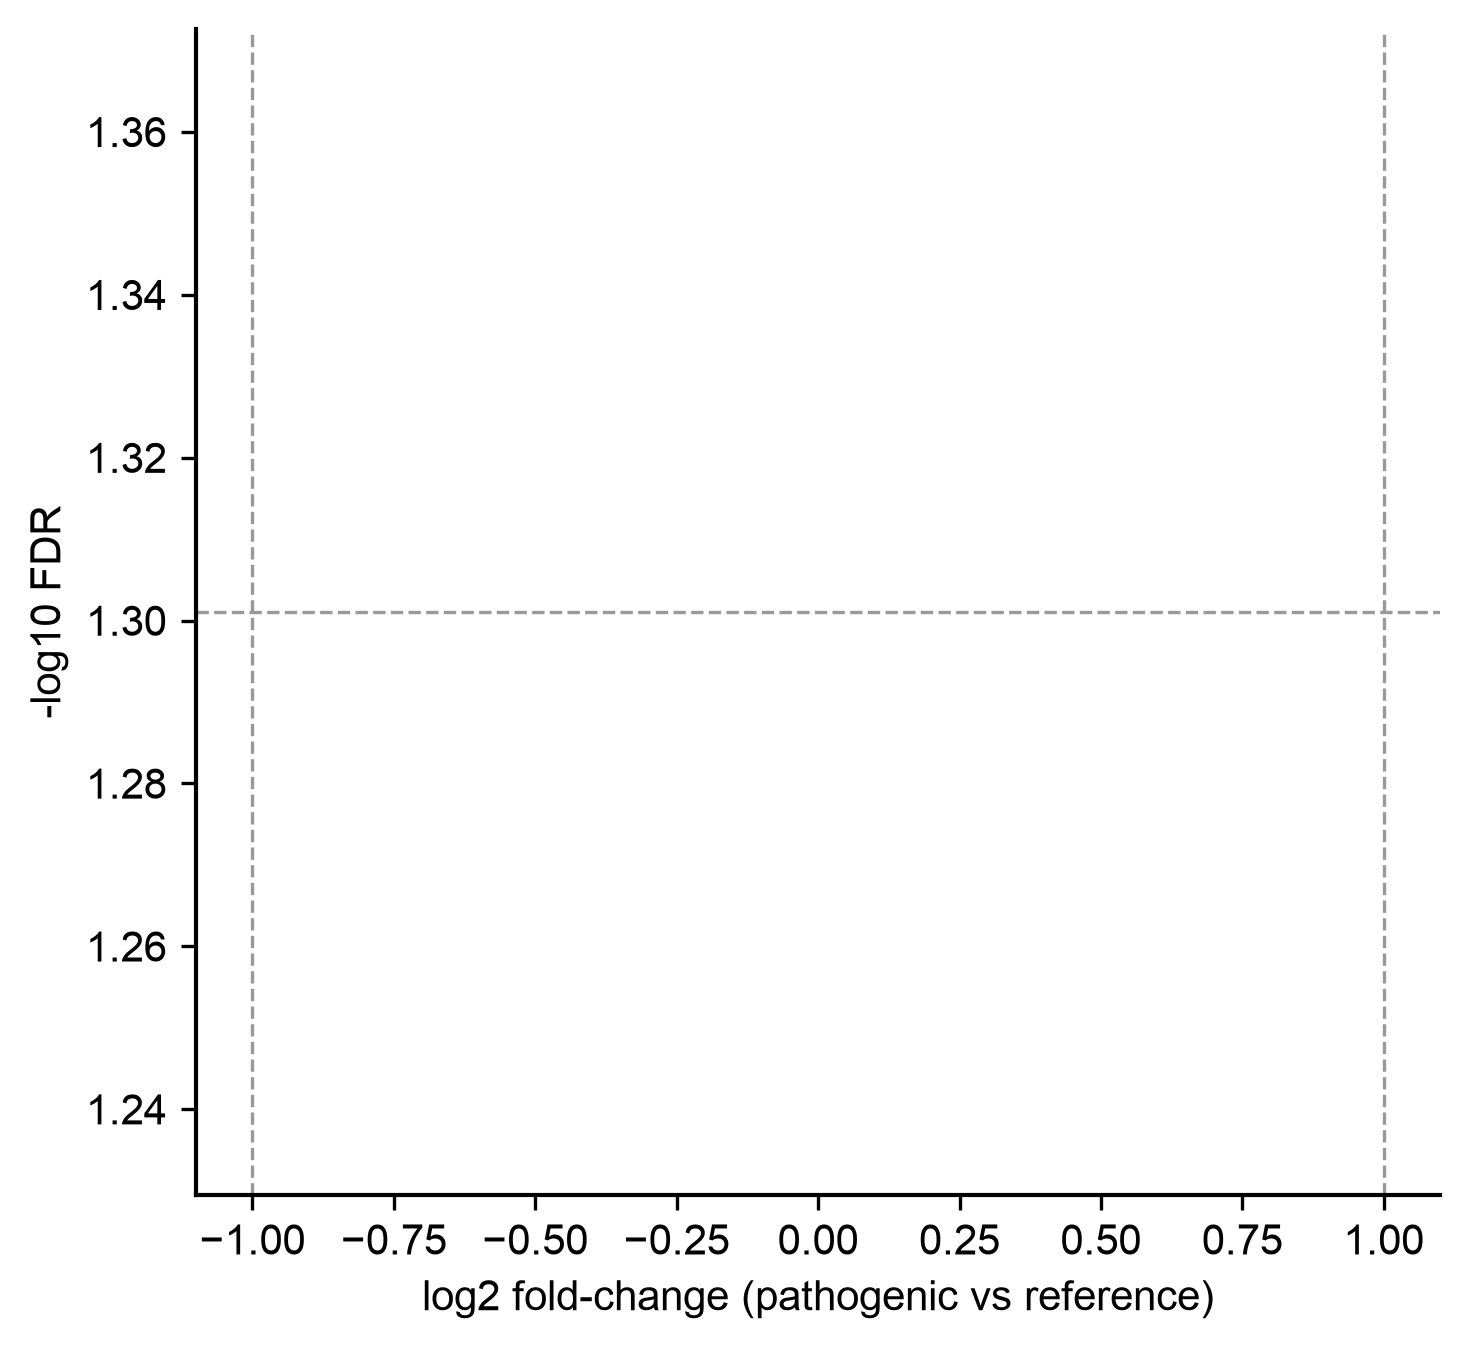
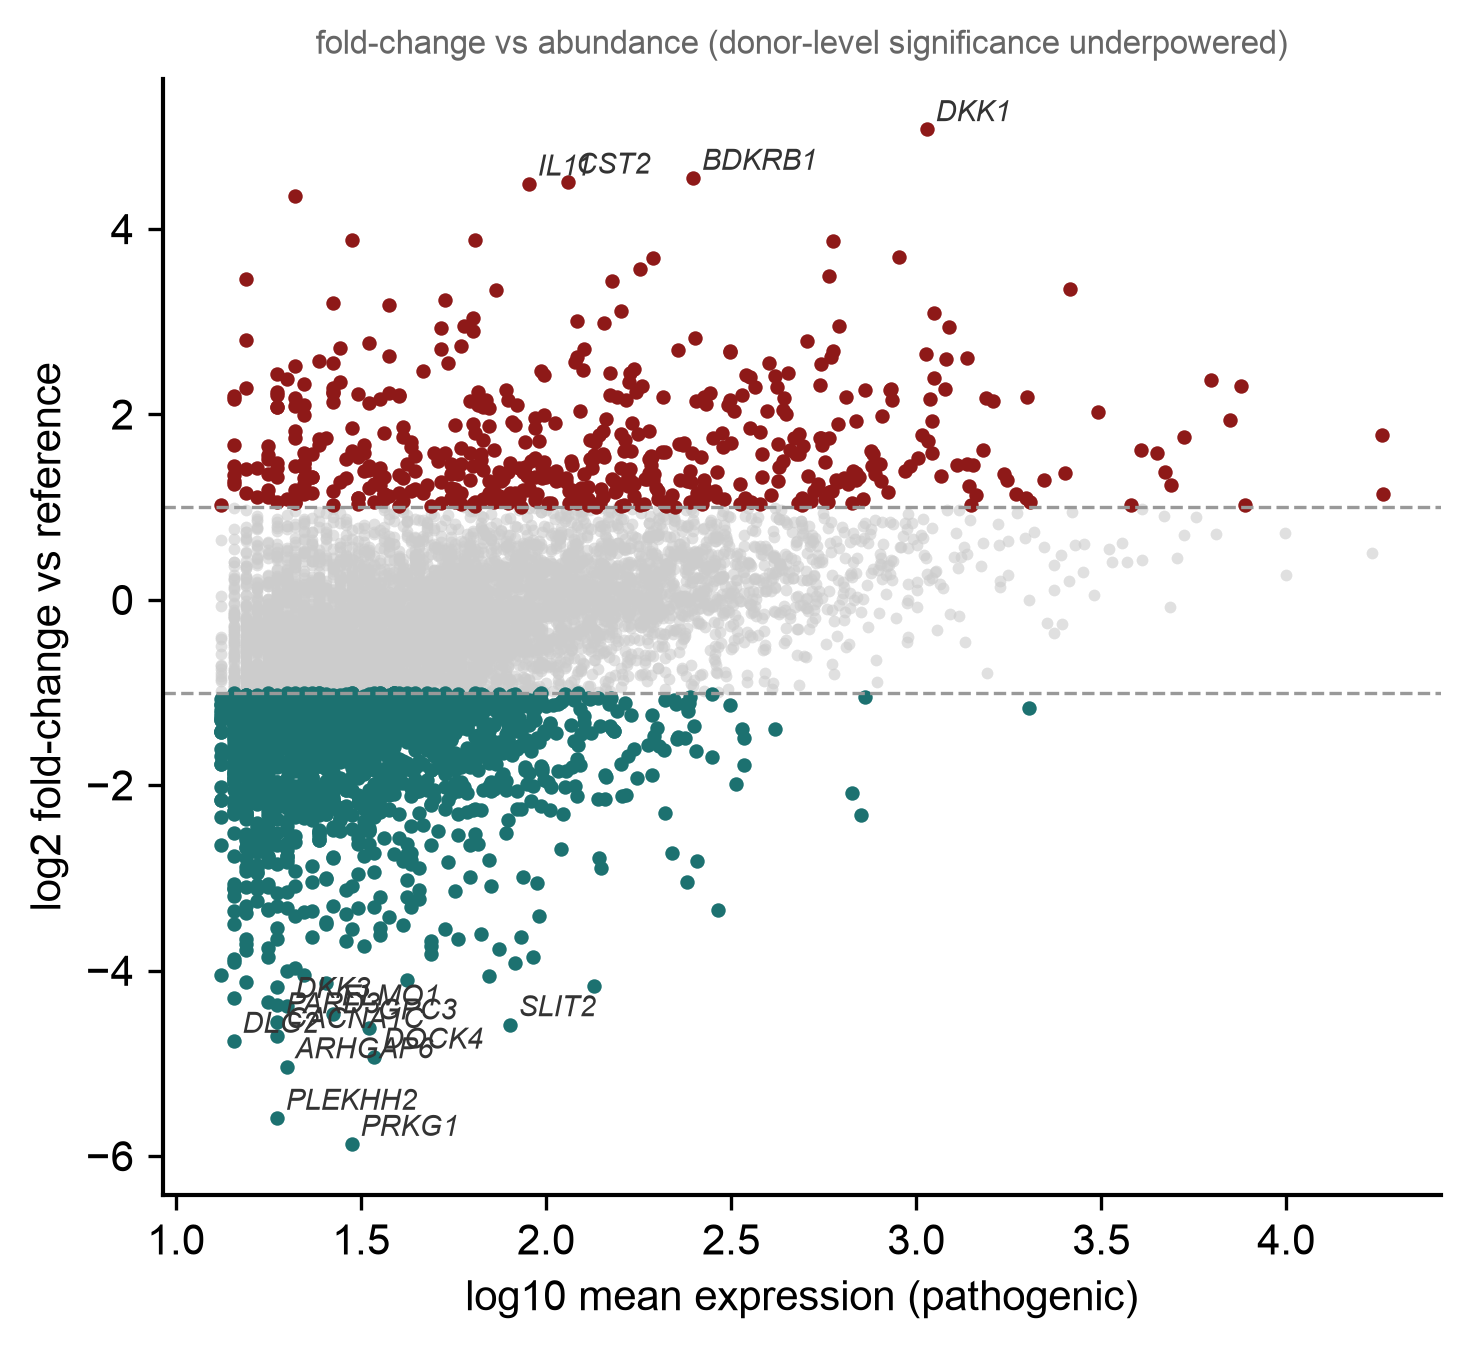
Robust volcano: MA-style fallback when donor-level significance is underpowered
Small pathogenic subpopulations (few donors) yield NaN p/FDR; the volcano now
falls back to a fold-change-vs-abundance view (never empty, honest about power).
Pulmonary fibrosis surfaces DKK1/IL11/CST2/BDKRB1 (real IPF fibroblast genes).

diff --git a/scripts/figures.py b/scripts/figures.py
@@ -120,24 +120,49 @@ def fig_window(df, outdir, n=12):
 
 
 def fig_volcano(de, outdir, fdr_thr=0.05, lfc_thr=1.0, label_top=15):
-    """Volcano of donor-level differential expression (log2FC vs -log10 FDR)."""
-    d = de.copy()
-    q = d["FDR"].clip(lower=1e-300)
-    d["nlq"] = -np.log10(q)
-    sig = (d["FDR"] < fdr_thr) & (d["log2FC"].abs() > lfc_thr)
+    """Volcano of donor-level DE (log2FC vs -log10 FDR).
+
+    Falls back to a fold-change-vs-abundance view when donor-level significance is
+    underpowered (few donors in a small pathogenic subpopulation → all-NaN p/FDR),
+    so the figure is never empty and stays honest about what's estimable.
+    """
+    d = de[de["log2FC"].notna()].copy()
+    ycol = next((c for c in ["FDR", "p_value", "p_mannwhitney"]
+                 if c in d and d[c].notna().sum() > 0), None)
     fig, ax = plt.subplots(figsize=(5.0, 4.6))
-    ax.scatter(d.loc[~sig, "log2FC"], d.loc[~sig, "nlq"], s=8, color="#cccccc", alpha=0.6, linewidth=0)
-    up = sig & (d["log2FC"] > 0)
-    ax.scatter(d.loc[up, "log2FC"], d.loc[up, "nlq"], s=12, color=CRIMSON, linewidth=0, label="up in pathogenic")
-    ax.scatter(d.loc[sig & ~up, "log2FC"], d.loc[sig & ~up, "nlq"], s=12, color=TEAL, linewidth=0)
-    ax.axhline(-np.log10(fdr_thr), color="#999", lw=0.8, ls="--")
-    ax.axvline(lfc_thr, color="#999", lw=0.8, ls="--")
-    ax.axvline(-lfc_thr, color="#999", lw=0.8, ls="--")
-    for _, r in d[up].nlargest(label_top, "nlq").iterrows():
-        ax.annotate(r["gene"], (r["log2FC"], r["nlq"]), fontsize=7, fontstyle="italic",
-                    xytext=(2, 2), textcoords="offset points", color="#333")
-    ax.set_xlabel("log2 fold-change (pathogenic vs reference)")
-    ax.set_ylabel("-log10 FDR")
+
+    if ycol is None:  # underpowered — MA-style fallback
+        mcol = "mean_pos" if "mean_pos" in d else ("mean_P" if "mean_P" in d else None)
+        x = np.log10((d[mcol] if mcol else 1.0) + 1)
+        big = d["log2FC"].abs() > lfc_thr
+        ax.scatter(x[~big], d["log2FC"][~big], s=8, color="#cccccc", alpha=0.6, linewidth=0)
+        ax.scatter(x[big & (d.log2FC > 0)], d.log2FC[big & (d.log2FC > 0)], s=12, color=CRIMSON, linewidth=0)
+        ax.scatter(x[big & (d.log2FC < 0)], d.log2FC[big & (d.log2FC < 0)], s=12, color=TEAL, linewidth=0)
+        for _, r in d.reindex(d["log2FC"].abs().sort_values(ascending=False).index).head(label_top).iterrows():
+            ax.annotate(r["gene"], (np.log10((r[mcol] if mcol else 1) + 1), r["log2FC"]),
+                        fontsize=7, fontstyle="italic", xytext=(2, 2), textcoords="offset points", color="#333")
+        ax.axhline(lfc_thr, color="#999", lw=0.8, ls="--")
+        ax.axhline(-lfc_thr, color="#999", lw=0.8, ls="--")
+        ax.set_xlabel("log10 mean expression (pathogenic)")
+        ax.set_ylabel("log2 fold-change vs reference")
+        ax.set_title("fold-change vs abundance (donor-level significance underpowered)",
+                     fontsize=8, color="#666")
+    else:
+        d["nlq"] = -np.log10(d[ycol].clip(lower=1e-300))
+        d = d[d["nlq"].notna()]
+        sig = (d[ycol] < fdr_thr) & (d["log2FC"].abs() > lfc_thr)
+        up = sig & (d["log2FC"] > 0)
+        ax.scatter(d.loc[~sig, "log2FC"], d.loc[~sig, "nlq"], s=8, color="#cccccc", alpha=0.6, linewidth=0)
+        ax.scatter(d.loc[up, "log2FC"], d.loc[up, "nlq"], s=12, color=CRIMSON, linewidth=0)
+        ax.scatter(d.loc[sig & ~up, "log2FC"], d.loc[sig & ~up, "nlq"], s=12, color=TEAL, linewidth=0)
+        ax.axhline(-np.log10(fdr_thr), color="#999", lw=0.8, ls="--")
+        ax.axvline(lfc_thr, color="#999", lw=0.8, ls="--")
+        ax.axvline(-lfc_thr, color="#999", lw=0.8, ls="--")
+        for _, r in d[up].nlargest(label_top, "nlq").iterrows():
+            ax.annotate(r["gene"], (r["log2FC"], r["nlq"]), fontsize=7, fontstyle="italic",
+                        xytext=(2, 2), textcoords="offset points", color="#333")
+        ax.set_xlabel("log2 fold-change (pathogenic vs reference)")
+        ax.set_ylabel(f"-log10 {ycol}")
     fig.tight_layout()
     fig.savefig(Path(outdir) / "fig_volcano.png", bbox_inches="tight")
     plt.close(fig)